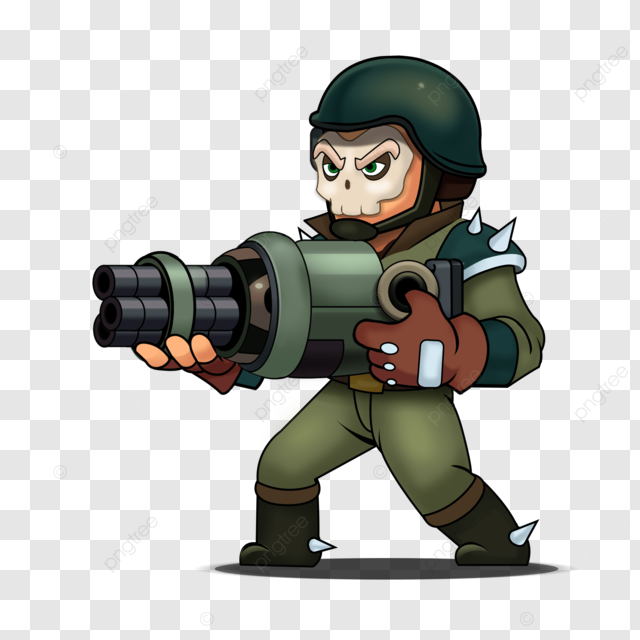
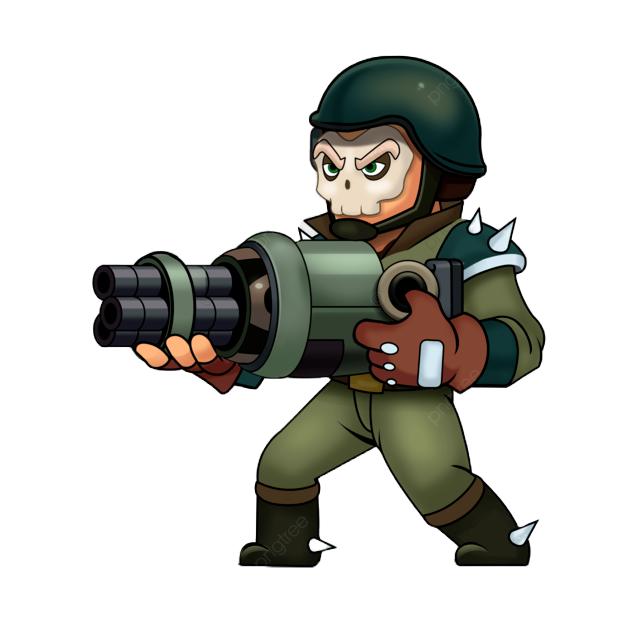
left image added

diff --git a/src/game/Player1.java b/src/game/Player1.java
@@ -7,26 +7,39 @@ import org.jbox2d.common.Vec2;
 public class Player1 extends Walker {
 
     private static final float SPEED = 5;
-    private static final float JUMP = 10;
+    private static final float JUMP = 15;
     private int health = 3;
     private int score = 0;
 
+    private BodyImage rightImage;
+    private BodyImage leftImage;
+    private BodyImage currentImage; // Track the currently applied image
+
     public Player1(GameWorld gameWorld) {
-        super(gameWorld, new BoxShape(1, 3));
+        super(gameWorld, new BoxShape(0.6f, 1));
         this.setPosition(new Vec2(4, -5));
-        this.addImage(new BodyImage("data/player1.png", 4));
+
+        // Load both images
+        rightImage = new BodyImage("data/player1.png", 3.5f);
+        leftImage = new BodyImage("data/player1_left.png", 3.5f); // Ensure this file exists
+
+        // Set default image (right-facing)
+        currentImage = rightImage;
+        this.addImage(currentImage);
     }
 
     public void moveLeft() {
         this.setLinearVelocity(new Vec2(-SPEED, this.getLinearVelocity().y));
+        faceLeft();
     }
 
     public void moveRight() {
         this.setLinearVelocity(new Vec2(SPEED, this.getLinearVelocity().y));
+        faceRight();
     }
 
     public void jump() {
-        if (this.getLinearVelocity().y == 0) { // Ensure jumping only when on the ground
+        if (this.getLinearVelocity().y == 0) {
             this.setLinearVelocity(new Vec2(this.getLinearVelocity().x, JUMP));
         }
     }
@@ -39,13 +52,14 @@ public class Player1 extends Walker {
         health--;
         if (health <= 0) {
             System.out.println("Player is dead!");
-            this.destroy(); // Remove the player if health is 0
+            this.destroy();
         }
     }
 
     public int getHealth() {
         return health;
     }
+
     public void increaseScore() {
         score++;
     }
@@ -54,7 +68,19 @@ public class Player1 extends Walker {
         return score;
     }
 
+    private void faceLeft() {
+        if (currentImage != leftImage) { // Only switch if necessary
+            this.removeAllImages(); // Remove existing images
+            this.addImage(leftImage); // Apply left-facing image
+            currentImage = leftImage;
+        }
+    }
 
+    private void faceRight() {
+        if (currentImage != rightImage) { // Only switch if necessary
+            this.removeAllImages(); // Remove existing images
+            this.addImage(rightImage); // Apply right-facing image
+            currentImage = rightImage;
+        }
+    }
 }
-
-

diff --git a/src/game/GameWorld.java b/src/game/GameWorld.java
@@ -9,22 +9,24 @@ import org.jbox2d.common.Vec2;
 public class GameWorld extends World {
 
     public GameWorld() {
-
         super();
-        Shape shape = new BoxShape(30, 3f);
+
+        Shape shape = new BoxShape(30, 5f);
         StaticBody ground = new StaticBody(this, shape);
         ground.setPosition(new Vec2(0f, -11.5f));
 
-        Shape platformShape = new BoxShape(3, 0.5f);
-
+        Shape platformShape = new BoxShape(4, 0.2f);
         StaticBody platform1 = new StaticBody(this, platformShape);
-        platform1.setPosition(new Vec2(-8, -4f));
+        platform1.setPosition(new Vec2(-10, -2));
 
         StaticBody platform2 = new StaticBody(this, platformShape);
-        platform2.setPosition(new Vec2(-8, 6f));
+        platform2.setPosition(new Vec2(3, 3));
 
         StaticBody platform3 = new StaticBody(this, platformShape);
-        platform3.setPosition(new Vec2(5, -2f));
+        platform3.setPosition(new Vec2(9, -12));
+
+        StaticBody platform4 = new StaticBody(this, platformShape);
+        platform3.setPosition(new Vec2(11, 5));
 
     }
 }

diff --git a/src/game/Game.java b/src/game/Game.java
@@ -30,8 +30,8 @@ public class Game {
 
         Coin coin = new Coin(gameWorld, new Vec2(0, -3));
 
-        Enemy enemy1 = new Enemy(gameWorld, new Vec2(-5, -5), "data/enemy1.png");
-        Enemy enemy2 = new Enemy(gameWorld, new Vec2(7, -4), "data/enemy2.png");
+        Enemy enemy1 = new Enemy(gameWorld, new Vec2(3, 3), "data/enemy1.png");
+        Enemy enemy2 = new Enemy(gameWorld, new Vec2(-12, -1), "data/enemy2.png");
 
 
 

diff --git a/src/game/PolygonEditor.java b/src/game/PolygonEditor.java
@@ -242,7 +242,7 @@ public class PolygonEditor extends JPanel {
      * @param args command line arguments.
      */
     public static void main(String[] args) {
-        String fileName = "data/student.png";
+        String fileName = "data/player1.png";
         float boxHeight = 4.0f;
         int firstCoordIndex = 0;
         if (args.length > 0) {

diff --git a/src/game/Enemy.java b/src/game/Enemy.java
@@ -5,7 +5,7 @@ import org.jbox2d.common.Vec2;
 
 public class Enemy extends Walker {
     public Enemy(GameWorld gameWorld, Vec2 position, String imagePath) {
-        super(gameWorld, new BoxShape(1, 1));
+        super(gameWorld, new BoxShape(0.6f, 1));
         this.setPosition(position);
         this.addImage(new BodyImage(imagePath, 3));
     }

diff --git a/src/game/Coin.java b/src/game/Coin.java
@@ -7,6 +7,6 @@ public class Coin extends DynamicBody {
     public Coin(GameWorld gameWorld, Vec2 position) {
         super(gameWorld, new CircleShape(0.5f));
         this.setPosition(position);
-        this.addImage(new BodyImage("data/coin.png", 1));
+        this.addImage(new BodyImage("data/coin.png", 2));
     }
 }
